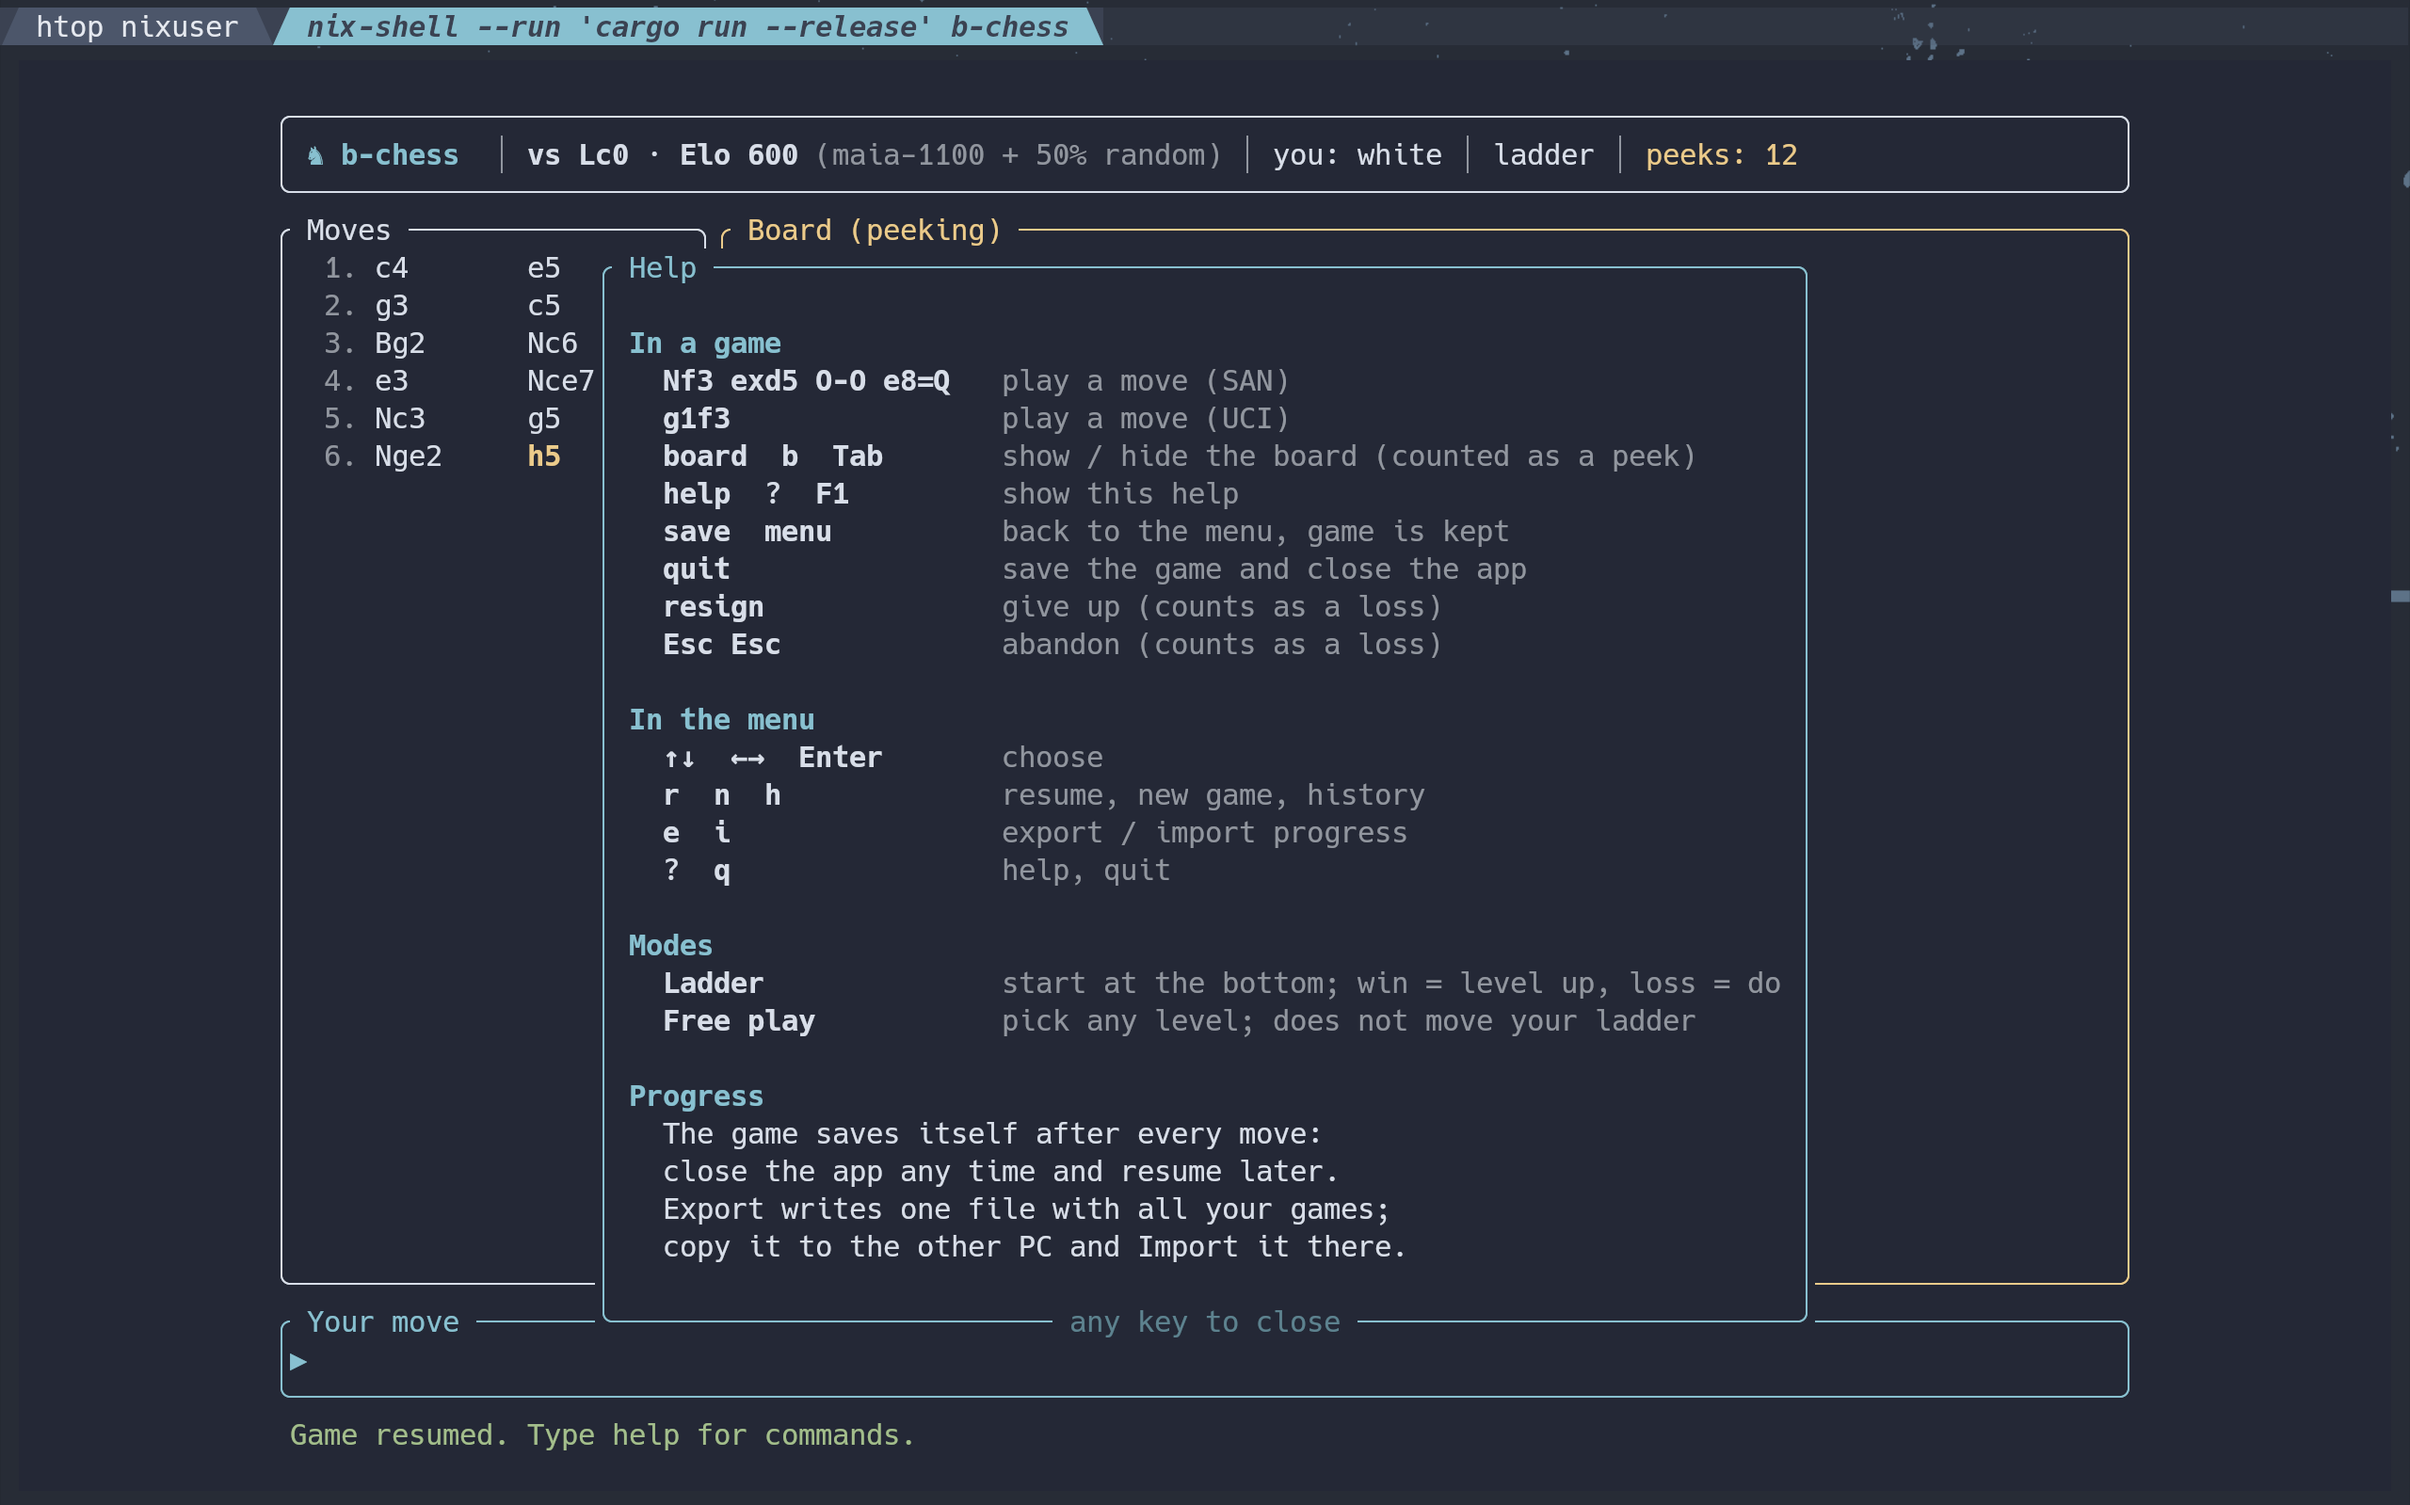
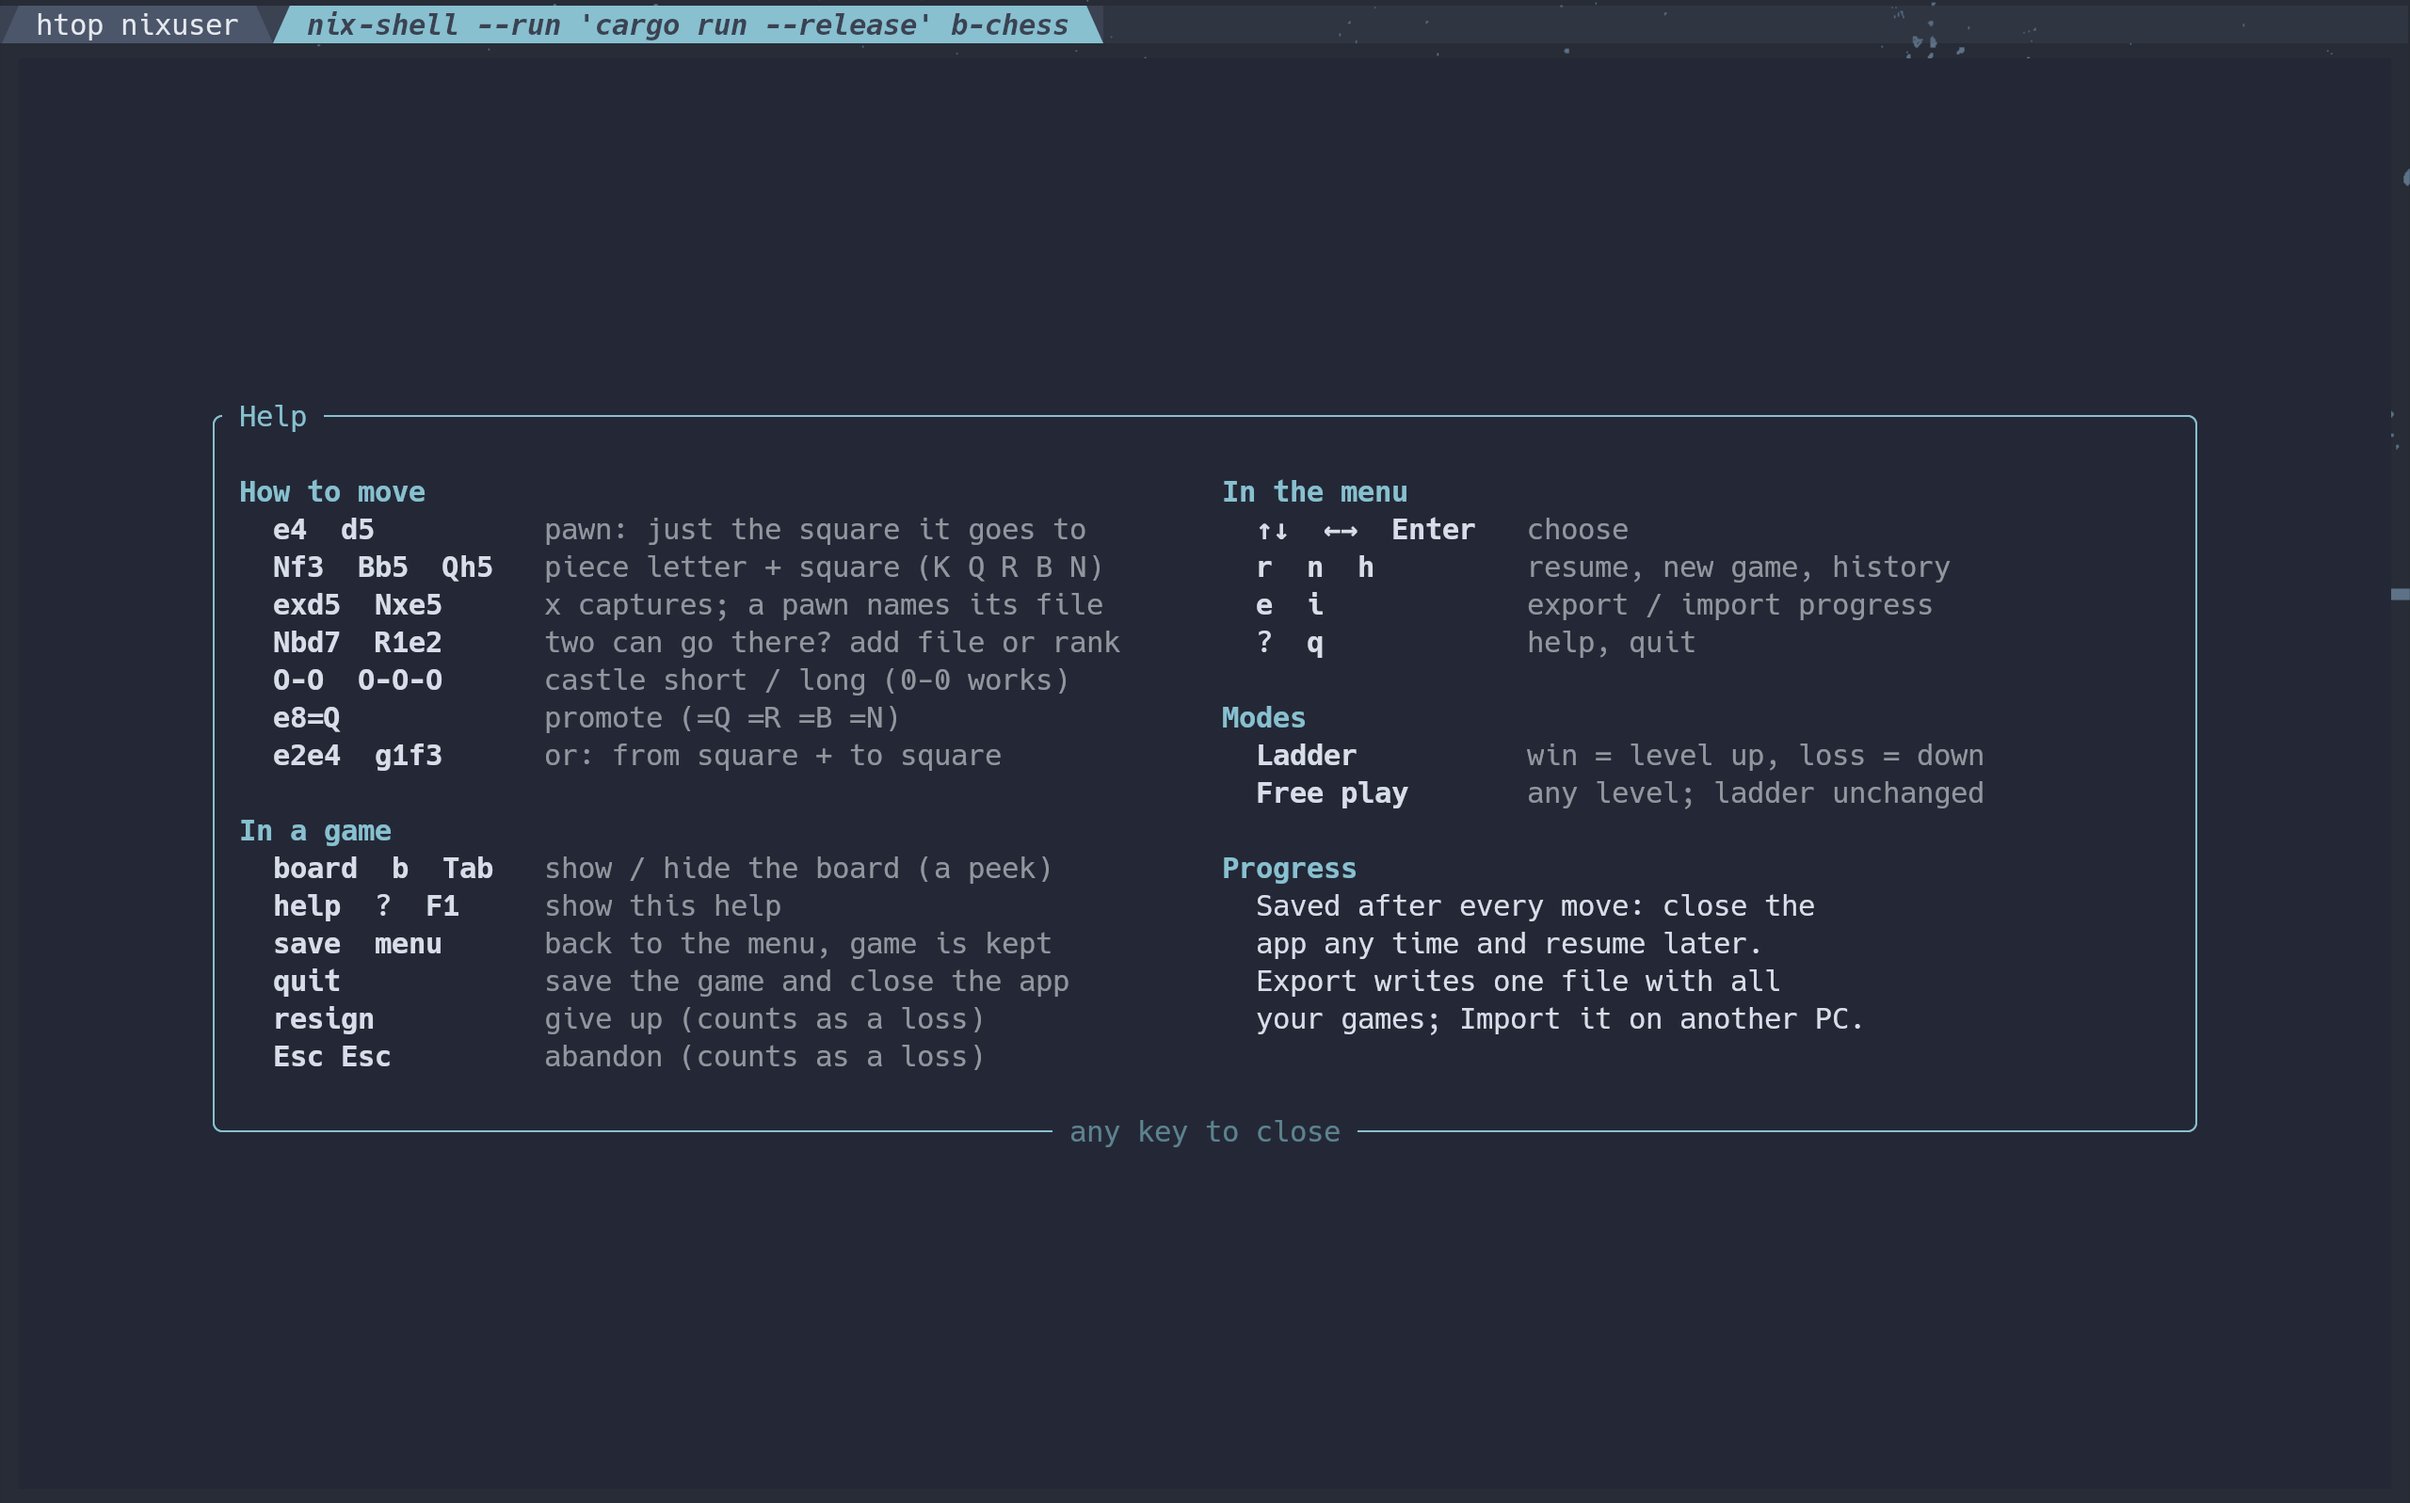
feat: portable paths and automatic network download for releases
- weights/ and data/ resolve to $B_CHESS_HOME, the source checkout when
  running from it, or ~/.local/share/b-chess (released binaries)
- missing networks are downloaded with curl on first run, replacing
  scripts/fetch-weights.sh
- outer background lighter than panels
- README: install from the release binary or from source

diff --git a/src/main.rs b/src/main.rs
@@ -18,15 +18,18 @@ use std::{
     io::{self, Write},
     path::{Path, PathBuf},
     process,
+    sync::OnceLock,
     time::{SystemTime, UNIX_EPOCH},
 };
 
-const WEIGHTS_DIR: &str = concat!(env!("CARGO_MANIFEST_DIR"), "/weights");
-const HISTORY_FILE: &str = concat!(env!("CARGO_MANIFEST_DIR"), "/data/history.tsv");
-const SAVED_FILE: &str = concat!(env!("CARGO_MANIFEST_DIR"), "/data/saved.tsv");
+const MAIA_URL: &str = "https://github.com/CSSLab/maia-chess/releases/download/v1.0";
+const T1_URL: &str =
+    "https://storage.lczero.org/files/networks-contrib/t1-256x10-distilled-swa-2432500.pb.gz";
 const ACCENT: Tc = Tc::Cyan;
-/// Background of the whole app.
+/// Background of panels and dialogs.
 const PANEL: Tc = Tc::Rgb(36, 40, 54);
+/// Background around them, a bit lighter so the panels stand out.
+const OUTER: Tc = Tc::Rgb(54, 60, 78);
 
 // Help is two columns side by side when the terminal is wide enough, stacked otherwise.
 const HELP_LEFT: &[(&str, &str)] = &[
@@ -158,6 +161,63 @@ impl Rng {
     }
 }
 
+// ---------- files ----------
+
+/// Where weights/ and data/ live: $B_CHESS_HOME, else this source checkout when running
+/// from it (dev builds), else ~/.local/share/b-chess (released binaries).
+fn home() -> &'static Path {
+    static HOME: OnceLock<PathBuf> = OnceLock::new();
+    HOME.get_or_init(|| {
+        if let Ok(h) = env::var("B_CHESS_HOME") {
+            return h.into();
+        }
+        let src = Path::new(env!("CARGO_MANIFEST_DIR"));
+        if src.join("Cargo.toml").exists() {
+            return src.into();
+        }
+        let data = env::var("XDG_DATA_HOME").map(PathBuf::from).unwrap_or_else(|_| {
+            Path::new(&env::var("HOME").unwrap_or_default()).join(".local/share")
+        });
+        data.join("b-chess")
+    })
+}
+
+fn history_file() -> PathBuf {
+    home().join("data/history.tsv")
+}
+
+fn saved_file() -> PathBuf {
+    home().join("data/saved.tsv")
+}
+
+/// Downloads the networks missing from `dir` with curl (Maia 1100-1900 + Leela T1, ~50 MB).
+fn fetch_networks(dir: &Path) -> io::Result<()> {
+    let mut nets: Vec<(String, String)> = (11..=19)
+        .map(|n| (format!("maia-{n}00.pb.gz"), format!("{MAIA_URL}/maia-{n}00.pb.gz")))
+        .collect();
+    nets.push(("t1-256x10.pb.gz".into(), T1_URL.into()));
+    fs::create_dir_all(dir)?;
+    for (name, url) in nets {
+        let path = dir.join(&name);
+        if path.exists() {
+            continue;
+        }
+        println!("Downloading {name} into {}", dir.display());
+        let part = dir.join(format!("{name}.part"));
+        let ok = process::Command::new("curl")
+            .args(["-fL", "--progress-bar", "-o"])
+            .arg(&part)
+            .arg(&url)
+            .status()?
+            .success();
+        if !ok {
+            return Err(io::Error::other(format!("download failed: {url}")));
+        }
+        fs::rename(part, path)?;
+    }
+    Ok(())
+}
+
 // ---------- history & saved game ----------
 
 fn color_code(c: Color) -> &'static str {
@@ -238,7 +298,7 @@ impl SavedGame {
 }
 
 fn load_history() -> Vec<Record> {
-    fs::read_to_string(HISTORY_FILE)
+    fs::read_to_string(history_file())
         .unwrap_or_default()
         .lines()
         .filter_map(Record::parse)
@@ -246,25 +306,25 @@ fn load_history() -> Vec<Record> {
 }
 
 fn append_history(r: &Record) -> io::Result<()> {
-    let path = Path::new(HISTORY_FILE);
+    let path = &history_file();
     fs::create_dir_all(path.parent().unwrap())?;
     let mut f = fs::OpenOptions::new().create(true).append(true).open(path)?;
     writeln!(f, "{}", r.to_line())
 }
 
 fn write_history(all: &[Record]) -> io::Result<()> {
-    let path = Path::new(HISTORY_FILE);
+    let path = &history_file();
     fs::create_dir_all(path.parent().unwrap())?;
     let text: String = all.iter().map(|r| r.to_line() + "\n").collect();
     fs::write(path, text)
 }
 
 fn load_saved() -> Option<SavedGame> {
-    SavedGame::parse(fs::read_to_string(SAVED_FILE).ok()?.trim_end_matches('\n'))
+    SavedGame::parse(fs::read_to_string(saved_file()).ok()?.trim_end_matches('\n'))
 }
 
 fn write_saved(saved: Option<&SavedGame>) -> io::Result<()> {
-    let path = Path::new(SAVED_FILE);
+    let path = &saved_file();
     match saved {
         Some(s) => {
             fs::create_dir_all(path.parent().unwrap())?;
@@ -900,7 +960,7 @@ impl App {
     // ---------- drawing ----------
 
     fn draw(&mut self, f: &mut Frame) {
-        solid(f, f.area());
+        f.render_widget(Block::new().style(Style::new().bg(OUTER)), f.area());
         // A modal gets the screen to itself: the page behind is not drawn.
         match &self.modal {
             Some(Modal::Help) => draw_help(f),
@@ -1319,10 +1379,13 @@ fn board_lines(pos: &Chess, me: Color, last: Option<Move>, spaced: bool) -> Vec<
 }
 
 fn main() -> io::Result<()> {
-    let weights = PathBuf::from(env::var("MAIA_DIR").unwrap_or_else(|_| WEIGHTS_DIR.into()));
+    let weights = env::var("MAIA_DIR").map_or_else(|_| home().join("weights"), PathBuf::from);
+    if let Err(e) = fetch_networks(&weights) {
+        eprintln!("{e}");
+    }
     let levels = levels(&weights);
     if levels.is_empty() {
-        eprintln!("No weights in {} (run scripts/fetch-weights.sh)", weights.display());
+        eprintln!("No networks in {} (needs curl and internet on first run)", weights.display());
         process::exit(1);
     }
     let mut app = App {

diff --git a/README.md b/README.md
@@ -55,29 +55,34 @@ Only the Maia ratings (1100–1900) come from the networks themselves. The other
 
 ## Install
 
-You need **Rust**, **[Lc0](https://github.com/LeelaChessZero/lc0)** and the network files.
-
-```sh
-git clone https://github.com/iamalisson/b-chess && cd b-chess
-./scripts/fetch-weights.sh      # Maia 1100-1900 + Leela T1 (~50 MB)
-```
-
-Get `lc0` on your `PATH`:
+**1. Get [Lc0](https://github.com/LeelaChessZero/lc0)** on your `PATH`:
 
 | System | How |
 |---|---|
-| NixOS / Nix | `nix-shell` (uses the included `shell.nix`) |
+| NixOS / Nix | `nix-shell` in this repo (uses the included `shell.nix`) |
 | Arch | `yay -S lc0` |
 | macOS | `brew install lc0` |
 | Others | [build or download a release](https://github.com/LeelaChessZero/lc0/releases) |
 
-Then run:
+**2a. Linux binary**: grab `b-chess-*-x86_64-linux.tar.gz` from
+[Releases](https://github.com/iamalisson/b-chess/releases) (static, runs on any x86_64 distro):
 
 ```sh
+tar xzf b-chess-*-x86_64-linux.tar.gz
+./b-chess
+```
+
+**2b. From source** (needs [Rust](https://rustup.rs)):
+
+```sh
+git clone https://github.com/iamalisson/b-chess && cd b-chess
 cargo run --release
 ```
 
-`LC0=/path/to/lc0` and `MAIA_DIR=/path/to/weights` override the defaults.
+On first run b-chess downloads the networks (Maia 1100–1900 + Leela T1, ~50 MB) with `curl`.
+Networks and progress live in `~/.local/share/b-chess` (or in the repo folder when run from source).
+
+`LC0=/path/to/lc0`, `MAIA_DIR=/path/to/weights` and `B_CHESS_HOME=/path` override the defaults.
 
 > **Speed:** levels up to 2100 answer instantly. From 2200 up, the big network runs on the CPU,
 > and a build with only the Eigen backend can take several seconds per move at 2800+.
@@ -108,7 +113,7 @@ Moves use standard algebraic notation (SAN):
 
 ## Progress & changing PCs
 
-Progress lives in `data/` (gitignored):
+Progress lives in `data/` inside `~/.local/share/b-chess` (or the repo, gitignored):
 
 - `data/history.tsv`: one line per finished game
 - `data/saved.tsv`: the game in progress
